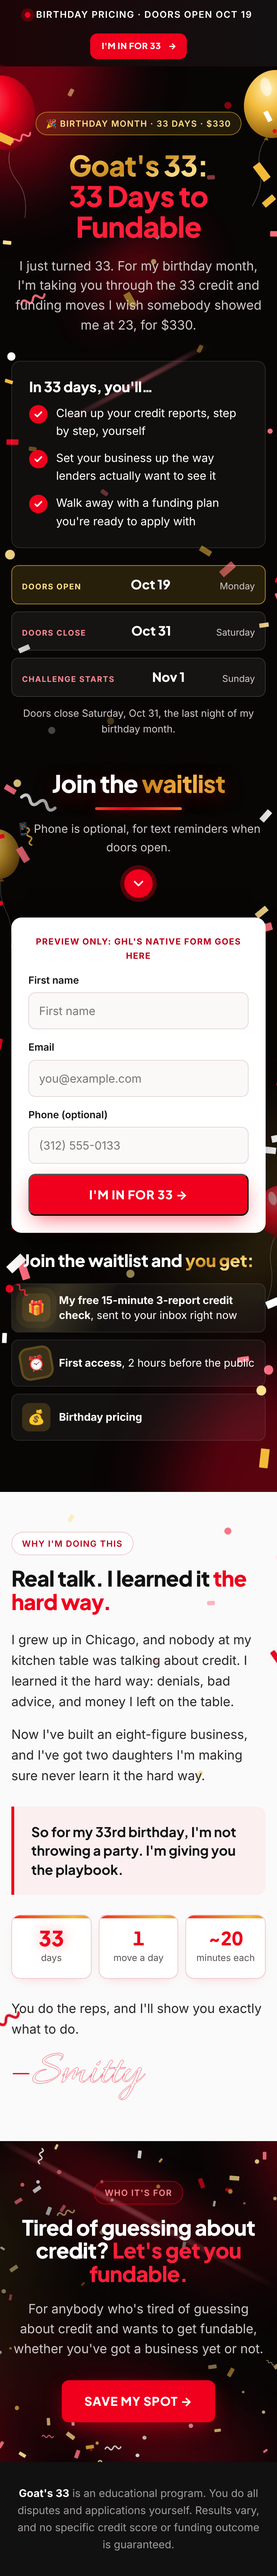
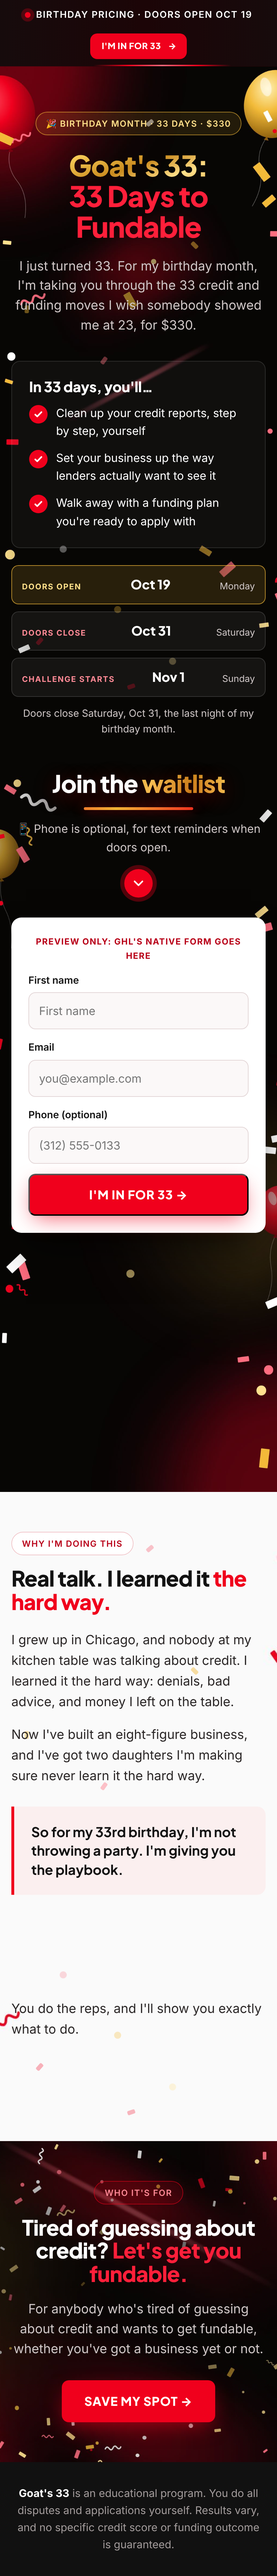
Make the Goat's 33 hero background tall enough for the full section
hero-desktop.jpg is now 1920x2600 with balloons spread down both sides,
since the hero section (headline, waitlist header, form, perks) grew
past the old 1680px image. The art script now picks the phone layout
by width, so tall desktop renders keep the desktop layout.

Claude-Session: https://claude.ai/code/session_016EWm4T9j3p357VgxQ4fA9k

diff --git a/funnel/goats-33/src/bg.html b/funnel/goats-33/src/bg.html
@@ -23,7 +23,7 @@
 <svg class="l grain" width="100%" height="100%"><filter id="g"><feTurbulence type="fractalNoise" baseFrequency=".9" numOctaves="3" stitchTiles="stitch"/></filter><rect width="100%" height="100%" filter="url(#g)"/></svg>
 <script>
 const v = new URLSearchParams(location.search).get('v') || 'hero';
-const W = innerWidth, H = innerHeight, portrait = H > W;
+const W = innerWidth, H = innerHeight, portrait = W < 1200; // phone art for the narrow renders, not just tall ones
 const art = document.getElementById('art');
 const add = (html) => art.insertAdjacentHTML('beforeend', html);
 let seed = 33; const rnd = () => (seed = (seed * 16807) % 2147483647) / 2147483647; // same art every render
@@ -89,17 +89,22 @@ if (v === 'light') {
       balloon(W * .06, 150, 120, 'red', -12); balloon(W * .94, 120, 110, 'gold', 12);
       balloon(W * .03, H * .55, 80, 'gold', -8, .7); balloon(W * .97, H * .8, 80, 'red', 8, .7);
     } else {
-      foilNumber('33', W * .72, 120, 300, 6);
-      balloon(W * .2, 230, 110, 'red', -10); balloon(W * .26, 150, 78, 'gold', 6); balloon(W * .16, 520, 70, 'white', -4, .9);
-      balloon(W * .8, 860, 96, 'red', 10); balloon(W * .85, 980, 70, 'gold', -6);
-      balloon(W * .19, 1180, 84, 'gold', -8, .9);
+      // Art spread down the whole height (fractions of H), so a taller or shorter section still looks full.
+      foilNumber('33', W * .765, H * .075, 260, 6);
+      balloon(W * .2, H * .09, 110, 'red', -10); balloon(W * .26, H * .06, 78, 'gold', 6); balloon(W * .16, H * .2, 70, 'white', -4, .9);
+      balloon(W * .8, H * .33, 96, 'red', 10); balloon(W * .85, H * .38, 70, 'gold', -6);
+      balloon(W * .19, H * .45, 84, 'gold', -8, .9);
+      balloon(W * .17, H * .66, 100, 'red', -8); balloon(W * .23, H * .7, 72, 'gold', 8);
+      balloon(W * .82, H * .62, 76, 'white', 6, .9);
+      balloon(W * .8, H * .82, 104, 'gold', 10); balloon(W * .86, H * .86, 74, 'red', -6);
+      balloon(W * .2, H * .9, 80, 'white', -6, .9);
     }
   } else {
     balloon(W * .93, H * .2, 100, 'red', 10); balloon(W * .85, H * .1, 74, 'gold', -6);
     balloon(W * .06, H * .7, 90, 'gold', -8); balloon(W * .13, H * .82, 64, 'red', 6);
   }
   const gutters = (x) => (x < .3 || x > .7 ? 1 : .03);
-  if (v === 'hero') confetti(portrait ? 260 : 520, ['#F0001C', '#F2B937', '#FFE08A', '#FFFFFF', '#FF6B7D'], portrait ? (x) => (x < .1 || x > .9 ? .9 : .04) : gutters, portrait ? 2.2 : 1);
+  if (v === 'hero') confetti(portrait ? 260 : 800, ['#F0001C', '#F2B937', '#FFE08A', '#FFFFFF', '#FF6B7D'], portrait ? (x) => (x < .1 || x > .9 ? .9 : .04) : gutters, portrait ? 2.2 : 1);
   else confetti(320, ['#F0001C', '#F2B937', '#FFE08A', '#FFFFFF', '#FF6B7D'], edges, 1);
   add('<div class="l vig"></div>');
 }

diff --git a/funnel/goats-33/README.md b/funnel/goats-33/README.md
@@ -7,7 +7,7 @@ Upload everything in `backgrounds/` to GHL **Media**:
 
 | File | Use on | Size |
 |---|---|---|
-| `hero-desktop.jpg` | Hero section (desktop) | 1920×1680 |
+| `hero-desktop.jpg` | Hero section (desktop) | 1920×2600 (tall so it covers the hero, waitlist header, form and perks) |
 | `hero-mobile.jpg` | Hero section (mobile) | 1080×5270 (tall on purpose: the hero is a long section on phones) |
 | `light-section.jpg` | "Why I'm doing this" section | 1920×1080 |
 | `dark-section.jpg` | "Who it's for" section | 1920×1080 |
